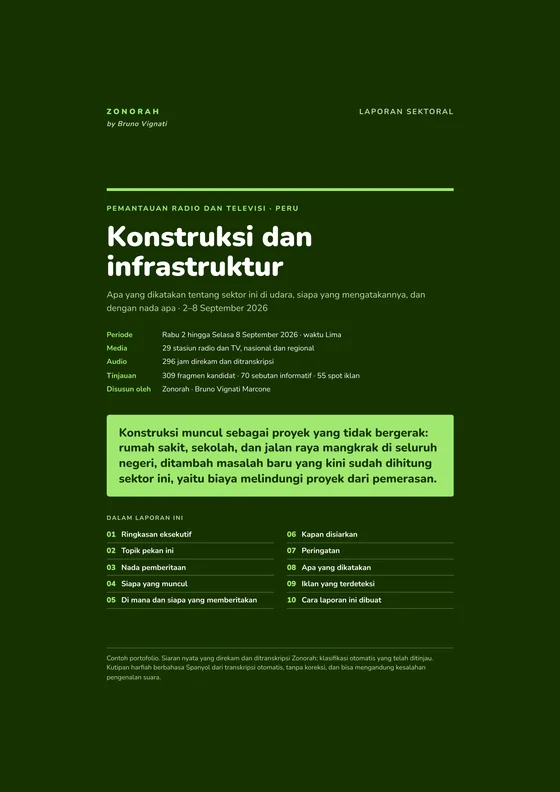
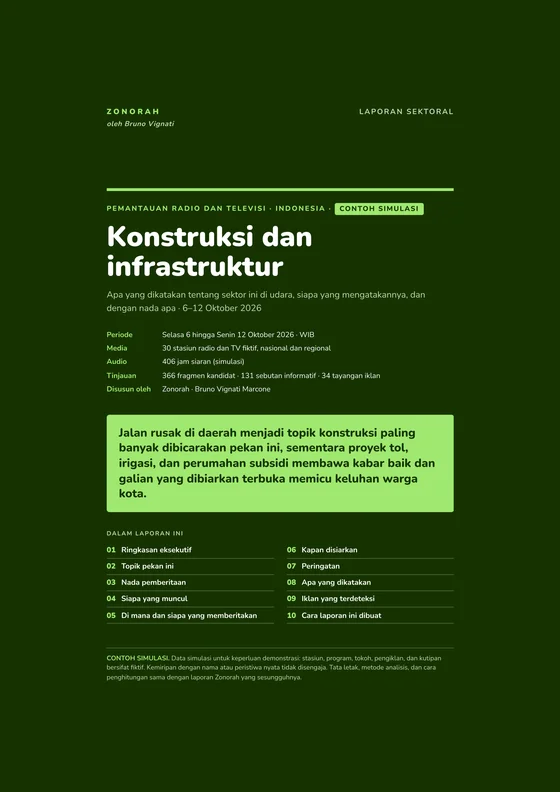
Indonesio: portadas y cifras de los informes simulados para Indonesia
Los informes en indonesio pasan a ser simulaciones adaptadas (30 emisoras
indonesias ficticias, 6–12 Oktober 2026) en lugar de la traducción de las
emisiones de Perú.

diff --git a/public/index.html b/public/index.html
@@ -618,7 +618,7 @@ body::after{content:"";position:fixed;inset:0;z-index:999;pointer-events:none;ba
      Si cambias un texto en español, cambia también su clave aquí. -->
 <script>
 (function () {
-  var D = {"Zonorah · Escucha de radio, TV y streaming con IA":"Zonorah · Pemantauan radio, TV, dan streaming dengan AI","Sintonizando":"Menyetel","Cómo funciona":"Cara kerja","Casos":"Kasus","Aprende":"Belajar","Planes":"Paket","Ver planes":"Lihat paket","Iniciar sesión / Registrarse":"Masuk / Daftar","Entrar al panel":"Masuk ke dasbor","e internet.":"dan internet.","Sintonizados":"Dipantau","las 24 horas.":"24 jam penuh.","Empieza gratis":"Mulai gratis","“Me enteré por un cliente, no por mi equipo.”":"“Saya tahu dari klien, bukan dari tim saya.”","“Grabamos la radio a mano cada mañana.”":"“Kami merekam radio secara manual setiap pagi.”","“La emisora local no sale en ningún informe.”":"“Stasiun lokal tidak pernah muncul di laporan mana pun.”","“Lo vimos tres días tarde.”":"“Kami baru melihatnya tiga hari kemudian.”","“Nadie escucha los fines de semana.”":"“Tidak ada yang mendengarkan di akhir pekan.”","“El clipping llega en PDF y sin audio.”":"“Kliping datang dalam PDF, tanpa audio.”","“Pagamos por menciones que no nos interesan.”":"“Kami membayar sebutan yang tidak kami perlukan.”","Enterarte de lo tuyo no debería ser un turno de guardia.":"Mengetahui apa yang dikatakan tentang Anda seharusnya bukan tugas jaga.","Paso 01":"Langkah 01","Paso 02":"Langkah 02","Paso 03":"Langkah 03","Paso 04":"Langkah 04","24 h · en continuo":"24 jam · tanpa henti","Captura":"Perekaman","Grabamos la emisión completa de cada fuente que elijas. Si una cae, reconectamos.":"Kami merekam siaran lengkap dari setiap sumber yang Anda pilih. Jika satu terputus, kami menyambungkannya kembali.","Podcasts":"Podcast","Whisper · español":"Whisper · bahasa Indonesia","…volvió a salir el asunto del pliego, porque según el portavoz":"…isu dokumen tender kembali mencuat, karena menurut juru bicara","la adjudicación no cumple los plazos":"penetapan pemenang tidak memenuhi tenggat","que se habían acordado, algo que desde la oposición":"yang telah disepakati, sesuatu yang oleh pihak oposisi","Transcripción":"Transkripsi","Audio a texto con marcas de tiempo. Locución rápida y acentos locales incluidos.":"Audio menjadi teks dengan penanda waktu. Termasuk bicara cepat dan aksen lokal.","Marcas de tiempo":"Penanda waktu","Acentos locales":"Aksen lokal","Audio original guardado":"Audio asli disimpan","Análisis · IA":"Analisis · AI","¿Quién habla?":"Siapa yang bicara?","Portavoz municipal":"Juru bicara pemkot","¿De qué?":"Tentang apa?","Adjudicación · pliego":"Penetapan pemenang · tender","¿Tono?":"Nada?","Negativo":"Negatif","¿Urgente según tus reglas?":"Mendesak menurut aturan Anda?","Sí":"Ya","Análisis":"Analisis","Por cada mención: quién habla, de qué, en qué tono y si es urgente según tus reglas.":"Untuk setiap sebutan: siapa yang bicara, tentang apa, dengan nada apa, dan apakah mendesak menurut aturan Anda.","Tono":"Nada","Actor":"Aktor","Tema":"Topik","Urgencia":"Urgensi","07:00 · o en <3 min":"07:00 · atau dalam <3 menit","Zonorah · Parte diario":"Zonorah · Laporan harian","23 menciones, 2 urgentes, 847 segmentos escuchados":"23 sebutan, 2 mendesak, 847 segmen didengarkan","Radio Norte abre con el pliego; Canal 5 recoge la suspensión de obras; RPP, positivo con el centro cultural.":"Radio Norte membuka dengan isu tender; Canal 5 memberitakan penghentian proyek; RPP positif soal pusat kebudayaan.","2 urgentes":"2 mendesak","4 fuentes":"4 sumber","Audio incluido":"Termasuk audio","Entrega":"Pengiriman","Informe diario a la hora que elijas. Si algo es crítico, alerta en menos de 3 minutos.":"Laporan harian pada jam pilihan Anda. Jika ada yang kritis, peringatan dikirim dalam kurang dari 3 menit.","Correo":"Email","Móvil":"Ponsel","API (plan Agencia)":"API (paket Agensi)","Para quién":"Untuk siapa","Gobierno y política":"Pemerintahan dan politik","Comunicación institucional":"Komunikasi kelembagaan","Qué se dice de tu institución en cada emisora local antes de tu primera reunión. Reaccionas en minutos, no en días.":"Apa yang dikatakan tentang lembaga Anda di setiap stasiun lokal, sebelum rapat pertama Anda. Anda bereaksi dalam hitungan menit, bukan hari.","“El ministro criticó la gestión del agua” · Radio Lima · 09:15 → alerta 09:17":"“Menteri mengkritik pengelolaan air” · Radio Lima · 09:15 → peringatan 09:17","Agencias":"Agensi","PR y reputación":"PR dan reputasi","Todos tus clientes a la vez, cada uno con sus palabras clave y sus reglas, sin pasar horas grabando emisiones.":"Semua klien Anda sekaligus, masing-masing dengan kata kunci dan aturannya sendiri, tanpa berjam-jam merekam siaran.","23 menciones · 3 clientes · informes enviados a las 06:00":"23 sebutan · 3 klien · laporan terkirim pukul 06:00","Marcas":"Merek","Inteligencia de mercado":"Intelijen pasar","Tu marca, tu sector y tu competencia en los medios hablados, el espacio que el social listening no cubre.":"Merek, sektor, dan pesaing Anda di media lisan, ruang yang tidak dijangkau social listening.","Alianza anunciada en una radio regional · detectada el mismo día":"Kemitraan diumumkan di radio daerah · terdeteksi di hari yang sama","Periodismo e investigación":"Jurnalisme dan riset","La memoria de los medios, en cifras":"Memori media, dalam angka","Cuánto se habló de un tema en la radio y la TV del Perú, dónde y cuándo. Datos abiertos, gráficos para insertar y metodología publicada. Gratis.":"Seberapa sering sebuah topik dibicarakan di radio dan TV Peru, di mana, dan kapan. Data terbuka, grafik yang bisa disematkan, dan metodologi yang dipublikasikan. Gratis.","· minutos al aire por cada 100 horas grabadas":"· menit siaran per 100 jam rekaman","Informes":"Laporan","Perú · 2 al 8 de septiembre de 2026 · 29 emisoras de radio y TV · 296 horas de audio":"Peru · 2–8 September 2026 · 29 stasiun radio dan TV · 296 jam audio","Descargar PDF":"Unduh PDF","Precios":"Harga","Todos los planes, gratis hasta el 31 de diciembre de 2026. Sin datos de pago.":"Semua paket gratis hingga 31 Desember 2026. Tanpa data pembayaran.","Intensivo":"Intensif","Redacción":"Redaksi","Para periodistas, docentes e investigadores.":"Untuk jurnalis, pengajar, dan peneliti.","100 preguntas a la IA al día":"100 pertanyaan ke AI per hari","500 preguntas a la IA al día":"500 pertanyaan ke AI per hari","2.000 preguntas a la IA al día":"2.000 pertanyaan ke AI per hari","Comparador y gráficos para insertar":"Pembanding dan grafik yang bisa disematkan","Descargas CSV sin límite":"Unduhan CSV tanpa batas","Laboratorio de estadística":"Laboratorium statistik","Activar gratis":"Aktifkan gratis","Más elegido":"Paling banyak dipilih","Para quien trabaja con los datos a diario.":"Untuk yang bekerja dengan data setiap hari.","Todo lo de Profesional":"Semua fitur Profesional","Todo lo de Intensivo":"Semua fitur Intensif","5 veces más consultas":"5 kali lebih banyak kueri","20 veces más consultas":"20 kali lebih banyak kueri","Gratis hasta el 31/12":"Gratis hingga 31/12","Para redacciones, equipos de investigación y agencias.":"Untuk redaksi, tim riset, dan agensi.","Precios al mes, en soles. ¿Monitoreo a medida para tu institución, con tus fuentes, alertas e informes?":"Harga per bulan, dalam sol Peru. Butuh pemantauan khusus untuk lembaga Anda, dengan sumber, peringatan, dan laporan sendiri?","Escríbenos":"Hubungi kami","Preguntas":"Pertanyaan","¿Qué fuentes podéis escuchar?":"Sumber apa saja yang bisa dipantau?","Cualquier emisora, canal, stream o podcast con emisión online accesible. Si tienes una fuente concreta en mente, la comprobamos antes de que contrates.":"Stasiun, kanal, stream, atau podcast apa pun yang siarannya bisa diakses online. Jika Anda punya sumber tertentu, kami periksa dulu sebelum Anda berlangganan.","¿Cuánto tarda en estar operativo?":"Berapa lama sampai bisa berjalan?","Diez minutos de alta —fuentes, palabras clave y reglas— y el primer informe llega a la mañana siguiente.":"Sepuluh menit untuk pendaftaran —sumber, kata kunci, dan aturan— dan laporan pertama tiba keesokan paginya.","¿Y los falsos positivos?":"Bagaimana dengan positif palsu?","Cada mención llega con su extracto y su audio para verificar en segundos. Marcas lo que no te interesa y la regla se aplica desde ese momento.":"Setiap sebutan datang dengan kutipan dan audionya, sehingga bisa diverifikasi dalam hitungan detik. Tandai yang tidak relevan, dan aturannya langsung berlaku sejak saat itu.","¿Dónde se guardan mis datos?":"Di mana data saya disimpan?","Base de datos aislada por cliente y conforme al RGPD. Exportas o eliminas tu histórico cuando quieras.":"Basis data terpisah untuk setiap klien dan sesuai GDPR. Anda bisa mengekspor atau menghapus riwayat kapan saja.","¿Se integra con nuestras herramientas?":"Apakah bisa terintegrasi dengan alat kami?","Las alertas llegan por correo y móvil; el plan Agencia incluye API para llevar las menciones a tu panel o CRM.":"Peringatan dikirim lewat email dan ponsel; paket Agensi menyertakan API untuk membawa sebutan ke dasbor atau CRM Anda.","Deja de enterarte tarde.":"Berhenti tahu belakangan.","Te enseñamos el panel con tus propias fuentes en 15 minutos. Si encaja, tu primer informe llega mañana.":"Kami tunjukkan dasbornya dengan sumber Anda sendiri dalam 15 menit. Jika cocok, laporan pertama Anda tiba besok.","Ver precios":"Lihat harga","Tu correo":"Email Anda","Enviar":"Kirim","O escríbenos y te llamamos hoy mismo":"Atau kirim pesan dan kami telepon Anda hari ini juga","Radio, televisión y streaming escuchados con IA, las 24 horas.":"Radio, televisi, dan streaming yang didengarkan AI, 24 jam penuh.","Producto":"Produk","Contacto":"Kontak","Panel":"Dasbor","Privacidad":"Privasi","Cookies":"Cookie","Términos":"Ketentuan","Volver arriba ↑":"Kembali ke atas ↑","Zonorah escucha radio, televisión y streaming las 24 horas, detecta cada mención que importa y te la entrega cada mañana en un único informe.":"Zonorah mendengarkan radio, televisi, dan streaming 24 jam, mendeteksi setiap sebutan yang penting, dan mengirimkannya kepada Anda setiap pagi dalam satu laporan.","Zonorah · Radio, TV e internet, escuchados las 24 horas":"Zonorah · Radio, TV, dan internet, didengarkan 24 jam","Radio, TV y streaming escuchados 24/7. Cada mención detectada, analizada y entregada en tu bandeja cada mañana.":"Radio, TV, dan streaming didengarkan 24/7. Setiap sebutan dideteksi, dianalisis, dan dikirim ke kotak masuk Anda setiap pagi.","Navegación principal":"Navigasi utama","Abrir menú":"Buka menu","Cerrar menú":"Tutup menu","Menú":"Menu","Canales y emisoras que sintonizamos":"Kanal dan stasiun yang kami pantau","Informes anteriores":"Laporan sebelumnya","Más informes":"Laporan lainnya","tu@organizacion.es":"anda@organisasi.id","Ir":"Buka","Bajar":"Turun","Ver":"Lihat","Abrir PDF":"Buka PDF","Salir":"Keluar"," · ir al chat":" · ke chat","Quiero ver una demo de Zonorah":"Saya ingin melihat demo Zonorah","Hola, quiero ver una demo. Podéis escribirme a ":"Halo, saya ingin melihat demo. Silakan hubungi saya di ","Cambiar idioma":"Ganti bahasa","Alimentos y agroindustria":"Pangan dan agroindustri","Portada del informe Alimentos y agroindustria":"Sampul laporan Pangan dan agroindustri","Banca y finanzas":"Perbankan dan keuangan","Portada del informe Banca y finanzas":"Sampul laporan Perbankan dan keuangan","Construcción e infraestructura":"Konstruksi dan infrastruktur","Portada del informe Construcción e infraestructura":"Sampul laporan Konstruksi dan infrastruktur","Energía e hidrocarburos":"Energi dan hidrokarbon","Portada del informe Energía e hidrocarburos":"Sampul laporan Energi dan hidrokarbon","Medio ambiente":"Lingkungan hidup","Portada del informe Medio ambiente":"Sampul laporan Lingkungan hidup","Minería":"Pertambangan","Portada del informe Minería":"Sampul laporan Pertambangan","Salud y medicina":"Kesehatan dan kedokteran","Portada del informe Salud y medicina":"Sampul laporan Kesehatan dan kedokteran","Seguridad ciudadana y defensa":"Keamanan publik dan pertahanan","Portada del informe Seguridad ciudadana y defensa":"Sampul laporan Keamanan publik dan pertahanan","Telecomunicaciones":"Telekomunikasi","Portada del informe Telecomunicaciones":"Sampul laporan Telekomunikasi","Transporte y movilidad":"Transportasi dan mobilitas","Portada del informe Transporte y movilidad":"Sampul laporan Transportasi dan mobilitas","34 menciones · 7 págs · PDF":"34 sebutan · 7 hlm · PDF","67 menciones · 6 págs · PDF":"67 sebutan · 7 hlm · PDF","70 menciones · 7 págs · PDF":"70 sebutan · 7 hlm · PDF","81 menciones · 7 págs · PDF":"81 sebutan · 7 hlm · PDF","52 menciones · 6 págs · PDF":"52 sebutan · 7 hlm · PDF","132 menciones · 6 págs · PDF":"132 sebutan · 7 hlm · PDF","209 menciones · 7 págs · PDF":"209 sebutan · 8 hlm · PDF","976 menciones · 7 págs · PDF":"976 sebutan · 7 hlm · PDF","8 menciones · 5 págs · PDF":"8 sebutan · 6 hlm · PDF","252 menciones · 6 págs · PDF":"252 sebutan · 7 hlm · PDF"};
+  var D = {"Zonorah · Escucha de radio, TV y streaming con IA":"Zonorah · Pemantauan radio, TV, dan streaming dengan AI","Sintonizando":"Menyetel","Cómo funciona":"Cara kerja","Casos":"Kasus","Aprende":"Belajar","Planes":"Paket","Ver planes":"Lihat paket","Iniciar sesión / Registrarse":"Masuk / Daftar","Entrar al panel":"Masuk ke dasbor","e internet.":"dan internet.","Sintonizados":"Dipantau","las 24 horas.":"24 jam penuh.","Empieza gratis":"Mulai gratis","“Me enteré por un cliente, no por mi equipo.”":"“Saya tahu dari klien, bukan dari tim saya.”","“Grabamos la radio a mano cada mañana.”":"“Kami merekam radio secara manual setiap pagi.”","“La emisora local no sale en ningún informe.”":"“Stasiun lokal tidak pernah muncul di laporan mana pun.”","“Lo vimos tres días tarde.”":"“Kami baru melihatnya tiga hari kemudian.”","“Nadie escucha los fines de semana.”":"“Tidak ada yang mendengarkan di akhir pekan.”","“El clipping llega en PDF y sin audio.”":"“Kliping datang dalam PDF, tanpa audio.”","“Pagamos por menciones que no nos interesan.”":"“Kami membayar sebutan yang tidak kami perlukan.”","Enterarte de lo tuyo no debería ser un turno de guardia.":"Mengetahui apa yang dikatakan tentang Anda seharusnya bukan tugas jaga.","Paso 01":"Langkah 01","Paso 02":"Langkah 02","Paso 03":"Langkah 03","Paso 04":"Langkah 04","24 h · en continuo":"24 jam · tanpa henti","Captura":"Perekaman","Grabamos la emisión completa de cada fuente que elijas. Si una cae, reconectamos.":"Kami merekam siaran lengkap dari setiap sumber yang Anda pilih. Jika satu terputus, kami menyambungkannya kembali.","Podcasts":"Podcast","Whisper · español":"Whisper · bahasa Indonesia","…volvió a salir el asunto del pliego, porque según el portavoz":"…isu dokumen tender kembali mencuat, karena menurut juru bicara","la adjudicación no cumple los plazos":"penetapan pemenang tidak memenuhi tenggat","que se habían acordado, algo que desde la oposición":"yang telah disepakati, sesuatu yang oleh pihak oposisi","Transcripción":"Transkripsi","Audio a texto con marcas de tiempo. Locución rápida y acentos locales incluidos.":"Audio menjadi teks dengan penanda waktu. Termasuk bicara cepat dan aksen lokal.","Marcas de tiempo":"Penanda waktu","Acentos locales":"Aksen lokal","Audio original guardado":"Audio asli disimpan","Análisis · IA":"Analisis · AI","¿Quién habla?":"Siapa yang bicara?","Portavoz municipal":"Juru bicara pemkot","¿De qué?":"Tentang apa?","Adjudicación · pliego":"Penetapan pemenang · tender","¿Tono?":"Nada?","Negativo":"Negatif","¿Urgente según tus reglas?":"Mendesak menurut aturan Anda?","Sí":"Ya","Análisis":"Analisis","Por cada mención: quién habla, de qué, en qué tono y si es urgente según tus reglas.":"Untuk setiap sebutan: siapa yang bicara, tentang apa, dengan nada apa, dan apakah mendesak menurut aturan Anda.","Tono":"Nada","Actor":"Aktor","Tema":"Topik","Urgencia":"Urgensi","07:00 · o en <3 min":"07:00 · atau dalam <3 menit","Zonorah · Parte diario":"Zonorah · Laporan harian","23 menciones, 2 urgentes, 847 segmentos escuchados":"23 sebutan, 2 mendesak, 847 segmen didengarkan","Radio Norte abre con el pliego; Canal 5 recoge la suspensión de obras; RPP, positivo con el centro cultural.":"Radio Norte membuka dengan isu tender; Canal 5 memberitakan penghentian proyek; RPP positif soal pusat kebudayaan.","2 urgentes":"2 mendesak","4 fuentes":"4 sumber","Audio incluido":"Termasuk audio","Entrega":"Pengiriman","Informe diario a la hora que elijas. Si algo es crítico, alerta en menos de 3 minutos.":"Laporan harian pada jam pilihan Anda. Jika ada yang kritis, peringatan dikirim dalam kurang dari 3 menit.","Correo":"Email","Móvil":"Ponsel","API (plan Agencia)":"API (paket Agensi)","Para quién":"Untuk siapa","Gobierno y política":"Pemerintahan dan politik","Comunicación institucional":"Komunikasi kelembagaan","Qué se dice de tu institución en cada emisora local antes de tu primera reunión. Reaccionas en minutos, no en días.":"Apa yang dikatakan tentang lembaga Anda di setiap stasiun lokal, sebelum rapat pertama Anda. Anda bereaksi dalam hitungan menit, bukan hari.","“El ministro criticó la gestión del agua” · Radio Lima · 09:15 → alerta 09:17":"“Menteri mengkritik pengelolaan air” · Radio Lima · 09:15 → peringatan 09:17","Agencias":"Agensi","PR y reputación":"PR dan reputasi","Todos tus clientes a la vez, cada uno con sus palabras clave y sus reglas, sin pasar horas grabando emisiones.":"Semua klien Anda sekaligus, masing-masing dengan kata kunci dan aturannya sendiri, tanpa berjam-jam merekam siaran.","23 menciones · 3 clientes · informes enviados a las 06:00":"23 sebutan · 3 klien · laporan terkirim pukul 06:00","Marcas":"Merek","Inteligencia de mercado":"Intelijen pasar","Tu marca, tu sector y tu competencia en los medios hablados, el espacio que el social listening no cubre.":"Merek, sektor, dan pesaing Anda di media lisan, ruang yang tidak dijangkau social listening.","Alianza anunciada en una radio regional · detectada el mismo día":"Kemitraan diumumkan di radio daerah · terdeteksi di hari yang sama","Periodismo e investigación":"Jurnalisme dan riset","La memoria de los medios, en cifras":"Memori media, dalam angka","Cuánto se habló de un tema en la radio y la TV del Perú, dónde y cuándo. Datos abiertos, gráficos para insertar y metodología publicada. Gratis.":"Seberapa sering sebuah topik dibicarakan di radio dan TV Peru, di mana, dan kapan. Data terbuka, grafik yang bisa disematkan, dan metodologi yang dipublikasikan. Gratis.","· minutos al aire por cada 100 horas grabadas":"· menit siaran per 100 jam rekaman","Informes":"Laporan","Perú · 2 al 8 de septiembre de 2026 · 29 emisoras de radio y TV · 296 horas de audio":"Indonesia (simulasi) · 6–12 Oktober 2026 · 30 stasiun radio dan TV fiktif · 406 jam audio","Descargar PDF":"Unduh PDF","Precios":"Harga","Todos los planes, gratis hasta el 31 de diciembre de 2026. Sin datos de pago.":"Semua paket gratis hingga 31 Desember 2026. Tanpa data pembayaran.","Intensivo":"Intensif","Redacción":"Redaksi","Para periodistas, docentes e investigadores.":"Untuk jurnalis, pengajar, dan peneliti.","100 preguntas a la IA al día":"100 pertanyaan ke AI per hari","500 preguntas a la IA al día":"500 pertanyaan ke AI per hari","2.000 preguntas a la IA al día":"2.000 pertanyaan ke AI per hari","Comparador y gráficos para insertar":"Pembanding dan grafik yang bisa disematkan","Descargas CSV sin límite":"Unduhan CSV tanpa batas","Laboratorio de estadística":"Laboratorium statistik","Activar gratis":"Aktifkan gratis","Más elegido":"Paling banyak dipilih","Para quien trabaja con los datos a diario.":"Untuk yang bekerja dengan data setiap hari.","Todo lo de Profesional":"Semua fitur Profesional","Todo lo de Intensivo":"Semua fitur Intensif","5 veces más consultas":"5 kali lebih banyak kueri","20 veces más consultas":"20 kali lebih banyak kueri","Gratis hasta el 31/12":"Gratis hingga 31/12","Para redacciones, equipos de investigación y agencias.":"Untuk redaksi, tim riset, dan agensi.","Precios al mes, en soles. ¿Monitoreo a medida para tu institución, con tus fuentes, alertas e informes?":"Harga per bulan, dalam sol Peru. Butuh pemantauan khusus untuk lembaga Anda, dengan sumber, peringatan, dan laporan sendiri?","Escríbenos":"Hubungi kami","Preguntas":"Pertanyaan","¿Qué fuentes podéis escuchar?":"Sumber apa saja yang bisa dipantau?","Cualquier emisora, canal, stream o podcast con emisión online accesible. Si tienes una fuente concreta en mente, la comprobamos antes de que contrates.":"Stasiun, kanal, stream, atau podcast apa pun yang siarannya bisa diakses online. Jika Anda punya sumber tertentu, kami periksa dulu sebelum Anda berlangganan.","¿Cuánto tarda en estar operativo?":"Berapa lama sampai bisa berjalan?","Diez minutos de alta —fuentes, palabras clave y reglas— y el primer informe llega a la mañana siguiente.":"Sepuluh menit untuk pendaftaran —sumber, kata kunci, dan aturan— dan laporan pertama tiba keesokan paginya.","¿Y los falsos positivos?":"Bagaimana dengan positif palsu?","Cada mención llega con su extracto y su audio para verificar en segundos. Marcas lo que no te interesa y la regla se aplica desde ese momento.":"Setiap sebutan datang dengan kutipan dan audionya, sehingga bisa diverifikasi dalam hitungan detik. Tandai yang tidak relevan, dan aturannya langsung berlaku sejak saat itu.","¿Dónde se guardan mis datos?":"Di mana data saya disimpan?","Base de datos aislada por cliente y conforme al RGPD. Exportas o eliminas tu histórico cuando quieras.":"Basis data terpisah untuk setiap klien dan sesuai GDPR. Anda bisa mengekspor atau menghapus riwayat kapan saja.","¿Se integra con nuestras herramientas?":"Apakah bisa terintegrasi dengan alat kami?","Las alertas llegan por correo y móvil; el plan Agencia incluye API para llevar las menciones a tu panel o CRM.":"Peringatan dikirim lewat email dan ponsel; paket Agensi menyertakan API untuk membawa sebutan ke dasbor atau CRM Anda.","Deja de enterarte tarde.":"Berhenti tahu belakangan.","Te enseñamos el panel con tus propias fuentes en 15 minutos. Si encaja, tu primer informe llega mañana.":"Kami tunjukkan dasbornya dengan sumber Anda sendiri dalam 15 menit. Jika cocok, laporan pertama Anda tiba besok.","Ver precios":"Lihat harga","Tu correo":"Email Anda","Enviar":"Kirim","O escríbenos y te llamamos hoy mismo":"Atau kirim pesan dan kami telepon Anda hari ini juga","Radio, televisión y streaming escuchados con IA, las 24 horas.":"Radio, televisi, dan streaming yang didengarkan AI, 24 jam penuh.","Producto":"Produk","Contacto":"Kontak","Panel":"Dasbor","Privacidad":"Privasi","Cookies":"Cookie","Términos":"Ketentuan","Volver arriba ↑":"Kembali ke atas ↑","Zonorah escucha radio, televisión y streaming las 24 horas, detecta cada mención que importa y te la entrega cada mañana en un único informe.":"Zonorah mendengarkan radio, televisi, dan streaming 24 jam, mendeteksi setiap sebutan yang penting, dan mengirimkannya kepada Anda setiap pagi dalam satu laporan.","Zonorah · Radio, TV e internet, escuchados las 24 horas":"Zonorah · Radio, TV, dan internet, didengarkan 24 jam","Radio, TV y streaming escuchados 24/7. Cada mención detectada, analizada y entregada en tu bandeja cada mañana.":"Radio, TV, dan streaming didengarkan 24/7. Setiap sebutan dideteksi, dianalisis, dan dikirim ke kotak masuk Anda setiap pagi.","Navegación principal":"Navigasi utama","Abrir menú":"Buka menu","Cerrar menú":"Tutup menu","Menú":"Menu","Canales y emisoras que sintonizamos":"Kanal dan stasiun yang kami pantau","Informes anteriores":"Laporan sebelumnya","Más informes":"Laporan lainnya","tu@organizacion.es":"anda@organisasi.id","Ir":"Buka","Bajar":"Turun","Ver":"Lihat","Abrir PDF":"Buka PDF","Salir":"Keluar"," · ir al chat":" · ke chat","Quiero ver una demo de Zonorah":"Saya ingin melihat demo Zonorah","Hola, quiero ver una demo. Podéis escribirme a ":"Halo, saya ingin melihat demo. Silakan hubungi saya di ","Cambiar idioma":"Ganti bahasa","Alimentos y agroindustria":"Pangan dan agroindustri","Portada del informe Alimentos y agroindustria":"Sampul laporan Pangan dan agroindustri","Banca y finanzas":"Perbankan dan keuangan","Portada del informe Banca y finanzas":"Sampul laporan Perbankan dan keuangan","Construcción e infraestructura":"Konstruksi dan infrastruktur","Portada del informe Construcción e infraestructura":"Sampul laporan Konstruksi dan infrastruktur","Energía e hidrocarburos":"Energi dan hidrokarbon","Portada del informe Energía e hidrocarburos":"Sampul laporan Energi dan hidrokarbon","Medio ambiente":"Lingkungan hidup","Portada del informe Medio ambiente":"Sampul laporan Lingkungan hidup","Minería":"Pertambangan","Portada del informe Minería":"Sampul laporan Pertambangan","Salud y medicina":"Kesehatan dan kedokteran","Portada del informe Salud y medicina":"Sampul laporan Kesehatan dan kedokteran","Seguridad ciudadana y defensa":"Keamanan publik dan pertahanan","Portada del informe Seguridad ciudadana y defensa":"Sampul laporan Keamanan publik dan pertahanan","Telecomunicaciones":"Telekomunikasi","Portada del informe Telecomunicaciones":"Sampul laporan Telekomunikasi","Transporte y movilidad":"Transportasi dan mobilitas","Portada del informe Transporte y movilidad":"Sampul laporan Transportasi dan mobilitas","34 menciones · 7 págs · PDF":"134 sebutan · 7 hlm · PDF","67 menciones · 6 págs · PDF":"153 sebutan · 7 hlm · PDF","70 menciones · 7 págs · PDF":"131 sebutan · 7 hlm · PDF","81 menciones · 7 págs · PDF":"155 sebutan · 7 hlm · PDF","52 menciones · 6 págs · PDF":"153 sebutan · 7 hlm · PDF","132 menciones · 6 págs · PDF":"148 sebutan · 7 hlm · PDF","209 menciones · 7 págs · PDF":"168 sebutan · 7 hlm · PDF","976 menciones · 7 págs · PDF":"160 sebutan · 7 hlm · PDF","8 menciones · 5 págs · PDF":"151 sebutan · 7 hlm · PDF","252 menciones · 6 págs · PDF":"158 sebutan · 7 hlm · PDF"};
   var L = null, q = new URLSearchParams(location.search).get('lang');
   try {
     if (q === 'es' || q === 'id') localStorage.setItem('zonorah-lang', q);
